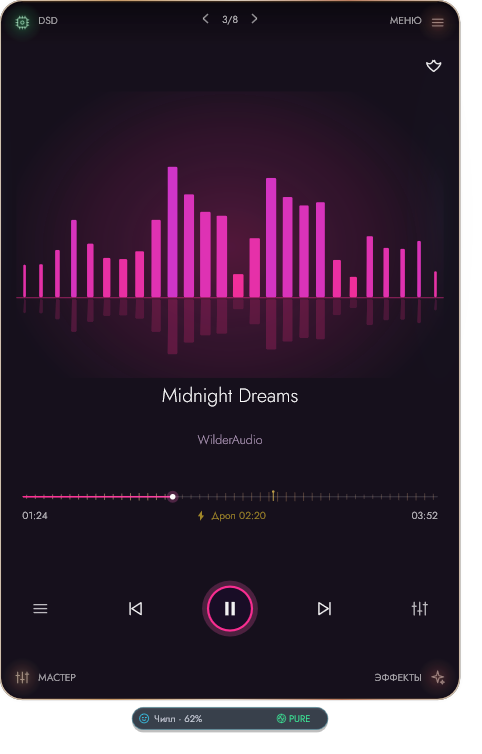
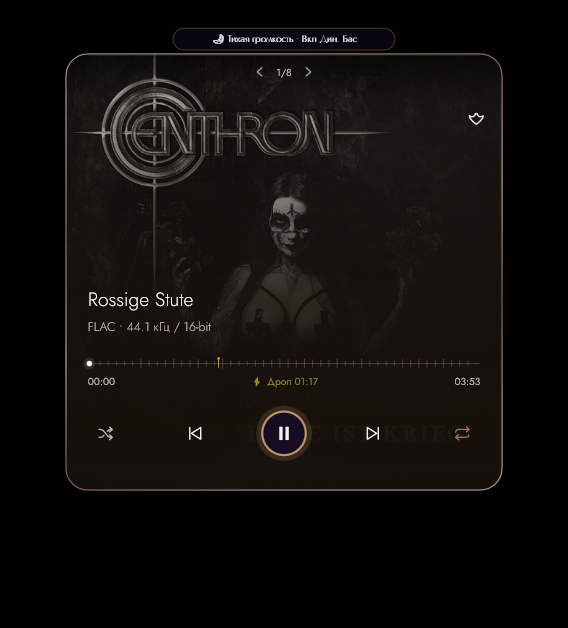
Release 2.4.2 — Интеграция Spectrum ID, 213 радиостанций и спокойный дизайн.
Обновление Spectrum 2.4.2: внедрена новая иконка в стиле Spectrum ID, полностью синхронизирован каталог радиостанций на 213 потоков с Android-версией, а цветовая палитра интерфейса переработана для снижения утомляемости глаз

diff --git a/README.md b/README.md
@@ -1,93 +1,113 @@
-# Spectrum — Аудиофильский Hi-Res / DSD плеер для Windows
+# Spectrum — Нативный Hi-Res / DSD плеер студийного класса для Windows
 
-[![Версия](https://img.shields.io/github/v/release/Aleksey-Pasechnik/Spectrum?style=for-the-badge&color=22d3ee&label=%D0%92%D0%B5%D1%80%D1%81%D0%B8%D1%8F)](https://github.com/Aleksey-Pasechnik/Spectrum/releases/latest)
+[![Версия](https://img.shields.io/github/v/release/Aleksey-Pasechnik/Spectrum?style=for-the-badge&color=60a5fa&label=%D0%92%D0%B5%D1%80%D1%81%D0%B8%D1%8F)](https://github.com/Aleksey-Pasechnik/Spectrum/releases/latest)
 [![Скачиваний](https://img.shields.io/github/downloads/Aleksey-Pasechnik/Spectrum/total?style=for-the-badge&color=8b5cf6&label=%D0%A1%D0%BA%D0%B0%D1%87%D0%B8%D0%B2%D0%B0%D0%BD%D0%B8%D0%B9)](https://github.com/Aleksey-Pasechnik/Spectrum/releases)
 [![Звёзд](https://img.shields.io/github/stars/Aleksey-Pasechnik/Spectrum?style=for-the-badge&color=f59e0b&label=%D0%97%D0%B2%D1%91%D0%B7%D0%B4)](https://github.com/Aleksey-Pasechnik/Spectrum/stargazers)
+[![Платформа](https://img.shields.io/badge/C%2B%2B20_%2B_Direct2D-WASAPI_%2F_ASIO-10b981?style=for-the-badge)](https://github.com/Aleksey-Pasechnik/Spectrum/releases/latest)
 
 **Автор и разработчик:** Пасечник Алексей Сергеевич ([VK: vk.ru/thepasechnik](https://vk.ru/thepasechnik))  
-**Языки:** Русский • English • Қазақша • Беларуская (автоопределение языка Windows + ручной выбор)
+**Языки:** Русский • English • Қазақша • Беларуская • Українська (автоопределение языка Windows + ручной выбор)
 
-> ### ⚡ Рекордная компактность: всего ~4 МБ нативного C++20 кода!
-> Пока современные плееры на Electron весят по **150–300 МБ** и съедают гигабайт оперативки, **Spectrum** написан на чистом нативном **C++20 + Direct2D + WASAPI/ASIO** — весит меньше одной MP3-песни (~3.95 МБ!), стартует мгновенно, не грузит процессор и при этом даёт студийный функционал, которого нет в подавляющем большинстве тяжёлых комбайнов.
+> ### 🎧 Бескомпромиссное нативное качество — полное закрытие потребностей любого аудиофила
+> **Spectrum** написан на чистом нативном **C++20 + Direct2D + WASAPI Exclusive / ASIO** — без Electron, браузерных движков и системного микшера Windows. Весь плеер весит **~4 МБ** (меньше одной MP3-песни!), стартует мгновенно, рисует интерфейс в честных 60 FPS на GPU и отдаёт звук в ваш ЦАП **бит-в-бит (`Bit-Perfect`)** с нативным **DSD64–DSD512** и апсемплингом `PCM → DSD` на лету.
 
-> **Почему в плеере есть демо-режим и активация по ключу?**
->
-> Привет! Я потратил около недели плотной разработки и вайбкодинга, исправил десятки сложных багов с WASAPI/DSD/интерфейсом и вложил в этот плеер душу. Просто так без обратной связи выложить и не знать, нужен ли он вообще людям, я не могу — **ключ активации сейчас нужен исключительно для того, чтобы понять реальный спрос**.
->
-> **Прямо сейчас я генерирую и отдаю персональный ключ ЛИЧНО КАЖДОМУ — абсолютно бесплатно.** В будущем проект может стать платным, но сегодня достаточно скачать плеер, попробовать его в 3-часовом демо-режиме и написать мне в VK ([vk.ru/thepasechnik](https://vk.ru/thepasechnik)), прислав свой **Код ПК (HWID)** — я сразу пришлю ключ!
+---
+
+## Чем Spectrum отличается от всех других плееров
+
+| Возможность | **Spectrum** | foobar2000 / AIMP | Roon / Audirvana | Spotify / Яндекс / VK |
+|---|---|---|---|---|
+| **Вес и скорость** | **~4 МБ**, нативный C++20, старт <0.2с | ~15–40 МБ, старый UI | 250+ МБ, тяжёлые БД | 200–400 МБ (Electron) |
+| **Нативный Bit-Perfect (WASAPI Excl / ASIO)** | **Из коробки в 1 клик** + привязка пресета к ЦАП | Нужны плагины и ручная настройка | Есть (дорого) | Нет (через микшер OS) |
+| **Нативный DSD512 + `PCM → DSD` на лету** | **Встроенный 4th-order Sigma-Delta модулятор** | Нужны сторонние компоненты | Есть (платно) | Нет |
+| **Детектор фейкового Hi-Res (реальный FFT)** | **Да! Сразу ловит апскейл 16 / 20 кГц и считает DR** | Нет из коробки | Нет | Нет |
+| **Акустический ИИ-анализ настроения + BPM** | **Да! Локально без интернета + Кольцо настроений** | Нет | Нет | Только по серверным тегам |
+| **Встроенное Hi-Res Радио + Радар + Запись** | **213 станций (10 полок), 60 FPS Радар, запись до 3 потоков `● REC`** | Базовые ссылки без анализа | Ограничено | Нет |
+| **Студийный Мастер-тракт** | **`PURE AUDIO 0% DSP`, `+DR`, импеданс 16–600 Ω, кроссфид, фазометр** | Отдельные DSP-плагины | Базовый DSP | Нет |
+| **Интерфейс 60 FPS GPU + 3 режима** | **7 студийных тем, 8 скинов, шейдеры, радиальное меню, Островок, «Всё в одном»** | Классические окна | Таблицы | Веб-интерфейс |
+
+---
+
+## Что нового в версии 2.4.2
+
+- **Фирменная иконка Spectrum ID** — обновлённый единый визуальный стиль на Windows и Android.
+- **Полная синхронизация каталога радио с Android (213+ станций):** 10 жанровых полок (*FLAC Lossless, Электро, Металл, Джаз/Лаунж, Рок/Ретро, Классика, Мир/Фолк, Попса, Шансон, Рэп*) с автоматической фильтрацией по подстилям, **60 FPS Direct2D Радар-сканером эфира** и **умной записью до 3 потоков одновременно** в `Saved Radio/`.
+- **Спокойная студийная цветовая палитра** — убраны излишне резкие «вырвиглазные» акценты, добавлена тема **Windows 12**; интерфейс стал мягче и комфортнее для глаз при долгом прослушивании.
 
 ---
 
 ## Скриншоты интерфейса
 
-### 1. Полноэкранный режим «Всё в одном» (`F11` / `3`)
-Три независимые колонки (**Плеер + Студийный Мастер + FFT-анализатор | Медиатека | Плейлист**) и адаптивная тема **«Обложка»**, которая плавно подстраивает палитру всего интерфейса под обложку текущего трека (плюс режим **🖤 AMOLED** `#000000`):
-![Полноэкранный режим Spectrum](screenshots/all_in_one.jpg)
+### 1. Полноэкранный режим «Всё в одном» (`3` / `F11`)
+Единое полноэкранное пространство из трёх колонок (**Плеер + Студийный Мастер + Реальный FFT-детектор | Hi-Fi Медиатека с тегами настроений | Плейлист и Очередь**):
 
-### 2. Компактный Liquid-Glass плеер (`1`), Мастер-тракт и Визуальные эффекты
-8 встроенных скинов (от жидкого стекла до вращающегося винила), выдвижные полупрозрачные панели **МАСТЕР** (`PURE AUDIO 0% DSP`, `WASAPI Excl / ASIO`, `PCM→DSD512`, `+DR`, адаптация под импеданс наушников, кроссфид, фазометр) и **ЭФФЕКТЫ** (живые шейдерные контуры и погода: Дождь, Гроза, Снег, Неон, Матрица):
-
-| Компактный плеер | Студийный Мастер-тракт | Винил + Живые эффекты |
-|---|---|---|
-| ![Компактный плеер Spectrum](screenshots/normal_player.png) | ![Студийный Мастер-тракт Spectrum](screenshots/master_panel.png) | ![Эффекты и винил Spectrum](screenshots/effects_panel.png) |
-
-### 3. Динамический островок (`2`)
-Невесомая мини-капсула поверх всех окон с живым эквалайзером, форматом/битрейтом и мгновенным управлением — идеально для работы и игр:
-![Динамический островок Spectrum](screenshots/dynamic_island.png)
-
-### 4. Галерея тем оформления, анализаторов спектра и настроений
-В **Spectrum** встроены **6 глобальных материалов** (*Стекло, Обсидиан, Чёрный металл, Дерево, Киберпанк, Карбон*), **8 живых скинов-визуализаторов** (зеркальный FFT-анализатор, винил, ночной мегаполис, неон-цветок и др.) и **автоанализ настроения + BPM**:
-
-| Зеркальный FFT-анализатор | Карбон + Эквалайзер | Киберпанк HUD |
-|---|---|---|
-| ![Анализатор спектра Spectrum](screenshots/theme_wood.png) | ![Карбон Spectrum](screenshots/theme_carbon.png) | ![Киберпанк Spectrum](screenshots/theme_cyberpunk.png) |
-
-| Обсидиан • Ночной город | Чёрный металл • Неон | Кольцо настроений + BPM |
-|---|---|---|
-| ![Обсидиан Spectrum](screenshots/theme_obsidian.png) | ![Чёрный металл Spectrum](screenshots/theme_metal.png) | ![Настроения Spectrum](screenshots/mood_ring.png) |
-
-### 5. Быстрая Hi-Fi Медиатека (`L`), Киберпанк-тема и Умный Плейлист (`P`)
-Тысячи треков без тормозов, фильтрация по настроениям и Hi-Res/DSD, встроенное **Радио FLAC** (19+ Lossless-станций), вкладки плейлистов, поиск дубликатов и смарт-корзины:
-
-| Hi-Fi Медиатека (Liquid Glass) | Медиатека в теме «Киберпанк» |
+| Полноэкранный «Всё в одном» — Стекло (Liquid Glass) | Полноэкранный «Всё в одном» — Киберпанк |
 |---|---|
-| ![Медиатека Spectrum](screenshots/media_library.png) | ![Киберпанк Медиатека Spectrum](screenshots/library_cyberpunk.png) |
+| ![Полноэкранный режим Стекло](screenshots/all_in_one.jpg) | ![Полноэкранный режим Киберпанк](screenshots/all_in_one_cyberpunk.jpg) |
 
-| Плейлист с вкладками и очередью |
-|---|
-| ![Плейлист Spectrum](screenshots/playlist_panel.png) |
+### 2. Компактный плеер (`1`), Мастер-тракт (`T`), Эффекты (`E`) и Радиальное меню
+Выдвижные полупрозрачные панели без наложений, **Радиальное веерное меню** по правому клику (темы, ЦАП, DSP, импеданс наушников, буфер и обновление в одно движение) и **Динамический островок (`2`)** поверх всех окон:
+
+| Компактный плеер | Студийный Мастер-тракт (`T`) | Живые эффекты и погода (`E`) |
+|---|---|---|
+| ![Компактный плеер Spectrum](screenshots/normal_player.png) | ![Студийный Мастер-тракт Spectrum](screenshots/master_panel.png) | ![Эффекты Spectrum](screenshots/effects_panel.png) |
+
+| Радиальное веерное меню (ПКМ) | Динамический островок (`2`) |
+|---|---|
+| ![Радиальное меню Spectrum](screenshots/radial_menu.png) | ![Динамический островок Spectrum](screenshots/dynamic_island.png) |
+
+### 3. Все 7 студийных тем оформления (спокойная палитра v2.4.2) + 8 скинов-визуализаторов
+Выбирайте материал под настроение: *Стекло, Обсидиан, Чёрный металл, Дерево, Киберпанк, Карбон, Windows 12* — и любой из 8 живых визуализаторов (обложка, вращающийся винил с тонармом, зеркальный FFT, ночной мегаполис и др.):
+
+| Стекло (Liquid Glass) | Обсидиан • Графит | Киберпанк • Винил |
+|---|---|---|
+| ![Стекло Spectrum](screenshots/theme_glass.png) | ![Обсидиан Spectrum](screenshots/theme_obsidian.png) | ![Киберпанк Винил Spectrum](screenshots/theme_cyberpunk.png) |
+
+| Карбон • Золотой акцент | Дерево • Тёплая студия | Windows 12 • Mica |
+|---|---|---|
+| ![Карбон Spectrum](screenshots/theme_carbon.png) | ![Дерево Spectrum](screenshots/theme_wood.png) | ![Windows 12 Spectrum](screenshots/theme_win12.png) |
+
+| Чёрный металл • Титан | Кольцо настроений + BPM |
+|---|---|
+| ![Чёрный металл Spectrum](screenshots/theme_metal.png) | ![Кольцо настроений Spectrum](screenshots/mood_ring.png) |
+
+### 4. Быстрая Hi-Fi Медиатека (`L`) и Умный Плейлист (`P`)
+Тысячи треков без тормозов, фильтрация по настроениям и Hi-Res/DSD, **встроенное Радио (213 станций по 10 полкам)**, вкладки плейлистов, поиск дубликатов и смарт-корзины:
+
+| Hi-Fi Медиатека | Киберпанк Медиатека | Умный Плейлист и Очередь |
+|---|---|---|
+| ![Медиатека Spectrum](screenshots/media_library.png) | ![Киберпанк Медиатека Spectrum](screenshots/library_cyberpunk.png) | ![Плейлист Spectrum](screenshots/playlist_panel.png) |
 
 ---
 
 ## Полный перечень возможностей
 
 ### 1. Чистота звукового тракта (Bit-Perfect & Hi-Res)
-- **WASAPI Exclusive (Event-Driven)** и **ASIO** — прямой монопольный вывод в ваш ЦАП или звуковую карту в обход системного микшера Windows.
-- **PURE AUDIO (`0% DSP`)** — мгновенное отключение эквалайзера и всех обработок для эталонного Bit-Perfect воспроизведения.
+- **WASAPI Exclusive (Event-Driven)** и **ASIO** — прямой монопольный вывод в ваш ЦАП или звуковую карту в обход системного микшера Windows. Автоматическое запоминание пресета под каждый подключённый ЦАП.
+- **PURE AUDIO (`0% DSP`, клавиша `U`)** — мгновенное отключение эквалайзера и всех обработок для эталонного Bit-Perfect воспроизведения.
 - **Нативный DSD (DSD64–DSD512, файлы `.dsf` / `.dff`)** + плавное усиление DSD (`+0 / +3 / +6 дБ`) с защитой от клиппинга.
-- **Апсемплинг `PCM → DSD` на лету** — 4th-order Sigma-Delta модулятор, переводящий FLAC/MP3/PCM в 1-битный DSD (работает в ASIO и WASAPI Exclusive DoP) для обхода штатных PCM-фильтров ЦАП.
-- **Детектор фейкового Hi-Res (FFT)** — наглядно показывает реальную частотную границу трека:
+- **Апсемплинг `PCM → DSD` на лету (`D`)** — 4th-order Sigma-Delta модулятор, переводящий FLAC/MP3/PCM в 1-битный DSD (работает в ASIO и WASAPI Exclusive DoP) для обхода штатных PCM-фильтров ЦАП.
+- **Детектор фейкового Hi-Res (реальный FFT)** — сразу показывает реальную частотную границу трека:
   - `⚠ ФЕЙК HI-RES (срез 16 кГц)` — пережатый MP3 в обёртке FLAC;
   - `⚠ АПСКЕЙЛ CD (срез 20 кГц)` — растянутый 44.1 кГц CD-мастер;
   - `💎 ПОДЛИННЫЙ HI-RES (>20 кГц)` и `✦ ЧИСТЫЙ DSD`.
-- **Студийный Мастер-тракт:**
-  - `+DR` (восстановление динамического диапазона для пережатых треков);
+- **Студийный Мастер-тракт (`T`):**
+  - `+DR` — восстановление динамического диапазона для пережатых треков;
   - Адаптация под импеданс наушников (`16–32 Ω`, `32–80 Ω`, `80–250 Ω`, `250–600 Ω`, `BT / ANC`);
   - Профили слуха (`+Воздух`, `Релакс`, `Голос`);
   - Динамический бас (тонкомпенсация на тихой громкости), гармонический эксайтер, кроссфид для наушников, фазовый коррелометр и профилировщик задержки буфера.
 
-### 2. Интерфейс Liquid Glass и 3 режима работы
-- **Обычный компактный плеер (`1`)** — 8 скинов, 4 выдвижные полупрозрачные панели (`DSD`, `МЕНЮ`, `МАСТЕР`, `ЭФФЕКТЫ`) с взаимным исключением без наложений.
-- **Динамический островок (`2`)** — невесомая мини-капсула поверх всех окон + плавный выезд плейлиста у правого края экрана.
-- **Полноэкранный режим «Всё в одном» (`3` / `F11`)** — 3 колонки (`Плеер + Студийный Мастер + Liquid FFT-анализатор | Медиатека | Плейлист`) + эксклюзивные полноэкранные темы:
-  - **`🖤 AMOLED`** — абсолютно чёрный `#000000` фон;
-  - **`🎨 Обложка`** — вся цветовая палитра всех трёх панелей медленно и плавно переливается в тон обложки текущего трека.
+### 2. Интерфейс 60 FPS и 3 режима работы
+- **Обычный компактный плеер (`1`)** — 7 тем оформления, 8 скинов, 4 выдвижные полупрозрачные панели (`DSD`, `МЕНЮ`, `МАСТЕР`, `ЭФФЕКТЫ`), **Радиальное веерное меню** по правому клику и режим свайпа обложек (`Ctrl+D`) с живым предпрослушиванием фрагмента.
+- **Динамический островок (`2`)** — невесомая мини-капсула поверх всех окон с живым эквалайзером и плавным раскрытием при наведении.
+- **Полноэкранный режим «Всё в одном» (`3` / `F11`)** — 3 колонки (`Плеер + Студийный Мастер + FFT-анализатор | Медиатека | Плейлист`) + эксклюзивные режимы **`🖤 AMOLED`** (`#000000`) и **`🎨 Обложка`** (подстройка палитры под обложку текущего трека).
 
-### 3. Логистика локальной библиотеки и «Радио FLAC»
-- **Быстрая Медиатека:** тысячи треков без лагов, мгновенный поиск, строгая сортировка по алфавиту, круглое колесо алфавита, Drag-and-Drop треков и альбомов прямо в плейлист.
-- **Умные обложки:** автоматический поиск и сохранение обложек **строго в папки с вашей музыкой** (никакого мусорного кэша на диске C:).
-- **Плейлисты (`.m3u8`):** вкладки плейлистов, сохранение в «Мои плейлисты», поиск дубликатов, Умная корзина, интеграция с Проводником Windows.
-- **Встроенное «Радио FLAC»:** 19+ проверенных бесплатных Lossless / Ogg-FLAC радиостанций без авторизации (Рок, Электроника, Чилл, Классика, Джаз/Hi-Fi), живой каталог Radio Browser API, Избранное и отображение **живого битрейта (кбит/с)** прямо на главном экране.
+### 3. Логистика библиотеки и «Радио Spectrum» (213+ станций)
+- **Быстрая Медиатека (`L`):** тысячи треков без лагов, мгновенный поиск (`Ctrl+K`), круглое колесо алфавита, автоанализ настроения и BPM, Drag-and-Drop треков и альбомов прямо в плейлист.
+- **Умные обложки:** автоматический поиск и сохранение обложек **строго в папки с вашей музыкой** (никакого мусорного кэша на диске `C:`).
+- **Плейлисты (`.m3u8`):** вкладки плейлистов, поиск дубликатов, Умная корзина, интеграция с Проводником Windows.
+- **Радио Spectrum (213+ живых станций, синхронизировано с Android):** 10 жанровых полок (*FLAC Lossless, Электро, Металл, Джаз/Лаунж, Рок/Ретро, Классика, Мир/Фолк, Попса, Шансон, Рэп*), каталог Radio Browser API, **60 FPS Радар-сканер эфира** и **умная запись до 3 потоков одновременно (`● REC`)** в папку `Saved Radio/` с отображением живого битрейта.
+- **Автообновление с GitHub** прямо из плеера в один клик.
 
 ---
 
@@ -117,4 +137,4 @@
 | `L` / `P` / `O` | Медиатека / Плейлист / Открыть файлы |
 | `1` / `2` / `3` (`F11`) | Обычный вид / Островок / Всё в одном |
 | `U` / `D` / `T` / `E` | PURE AUDIO / PCM→DSD / Мастер / Эффекты |
-| `Q` / `Ctrl+K` / `Ctrl+D` / `F1` | Производительность / Поиск / Свайп / Справка (FAQ) |
+| `ПКМ` / `Ctrl+D` / `Ctrl+K` / `Q` / `F1` | Радиальное меню / Свайп / Поиск / Производительность / Справка |
